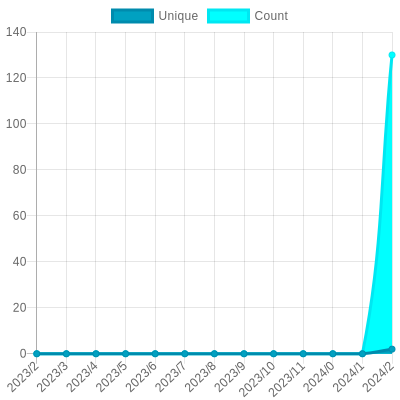
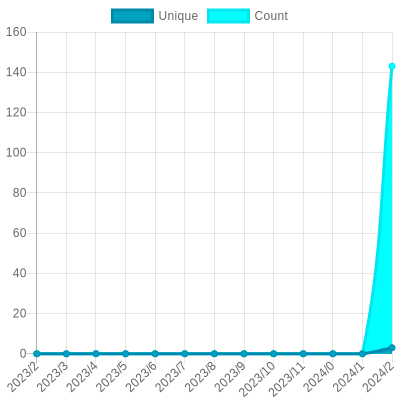
Update views

diff --git a/README.md b/README.md
@@ -1,4 +1,4 @@
-## 🚀 Hi, I am [Manvir](https://www.linkedin.com/in/manvirheer/)
+## [🚀 GitHub Profile Views Counter](https://github.com/gayanvoice/github-profile-views-counter)
 **GitHub Profile Views Counter** is an opensource project that powered entirely by  `GitHub Actions` to fetch and store insights of repositories.
 It uses `GitHub API` to fetch the insight data of your repositories and commits changes into a separate repository.
 
@@ -26,7 +26,7 @@ The project created and maintained by [gayanvoice](https://github.com/gayanvoice
 			</a>
 		</td>
 		<td>
-			2023/3/5 7:27 AM UTC
+			2023/3/6 7:27 AM UTC
 		</td>
 		<td>
 			1
@@ -37,7 +37,7 @@ The project created and maintained by [gayanvoice](https://github.com/gayanvoice
 	</tr>
 </table>
 
-<small><i>Last updated on 2023/3/7 6:37 PM UTC</i></small>
+<small><i>Last updated on 2023/3/8 2:58 AM UTC</i></small>
 
 ## ✂Copy and 📋 Paste
 ### Total Views Badge

diff --git a/readme/610620536/year.md b/readme/610620536/year.md
@@ -23,10 +23,10 @@
 			<code>2023/3/1</code>
 		</td>
 		<td>
-			<code>2</code>
+			<code>3</code>
 		</td>
 		<td>
-			<code>130</code>
+			<code>143</code>
 		</td>
 	</tr>
 	<tr>
@@ -164,7 +164,7 @@
 </table>
 
 </details>
-<small><i>Last updated on 2023/3/7 6:37 PM UTC</i></small>
+<small><i>Last updated on 2023/3/8 2:58 AM UTC</i></small>
 
 ## ✂Copy and 📋 Paste
 ### SVG Badge
